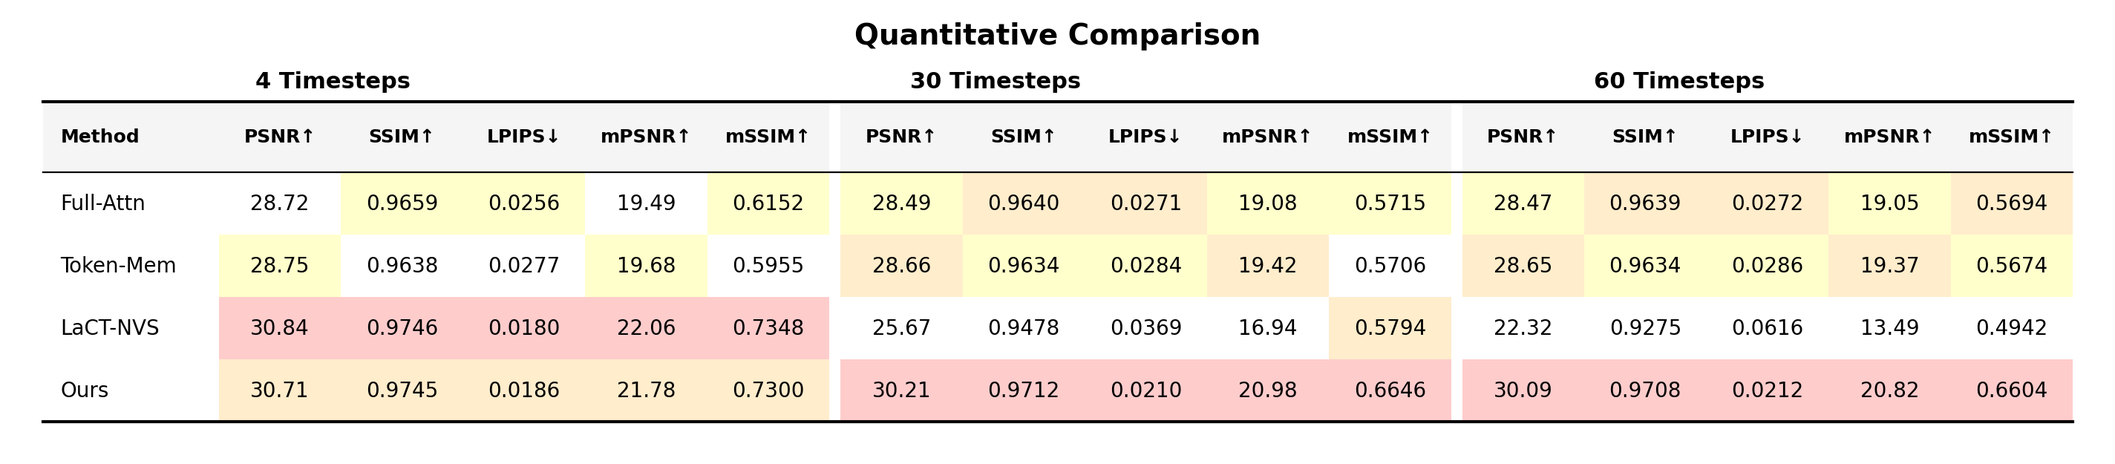
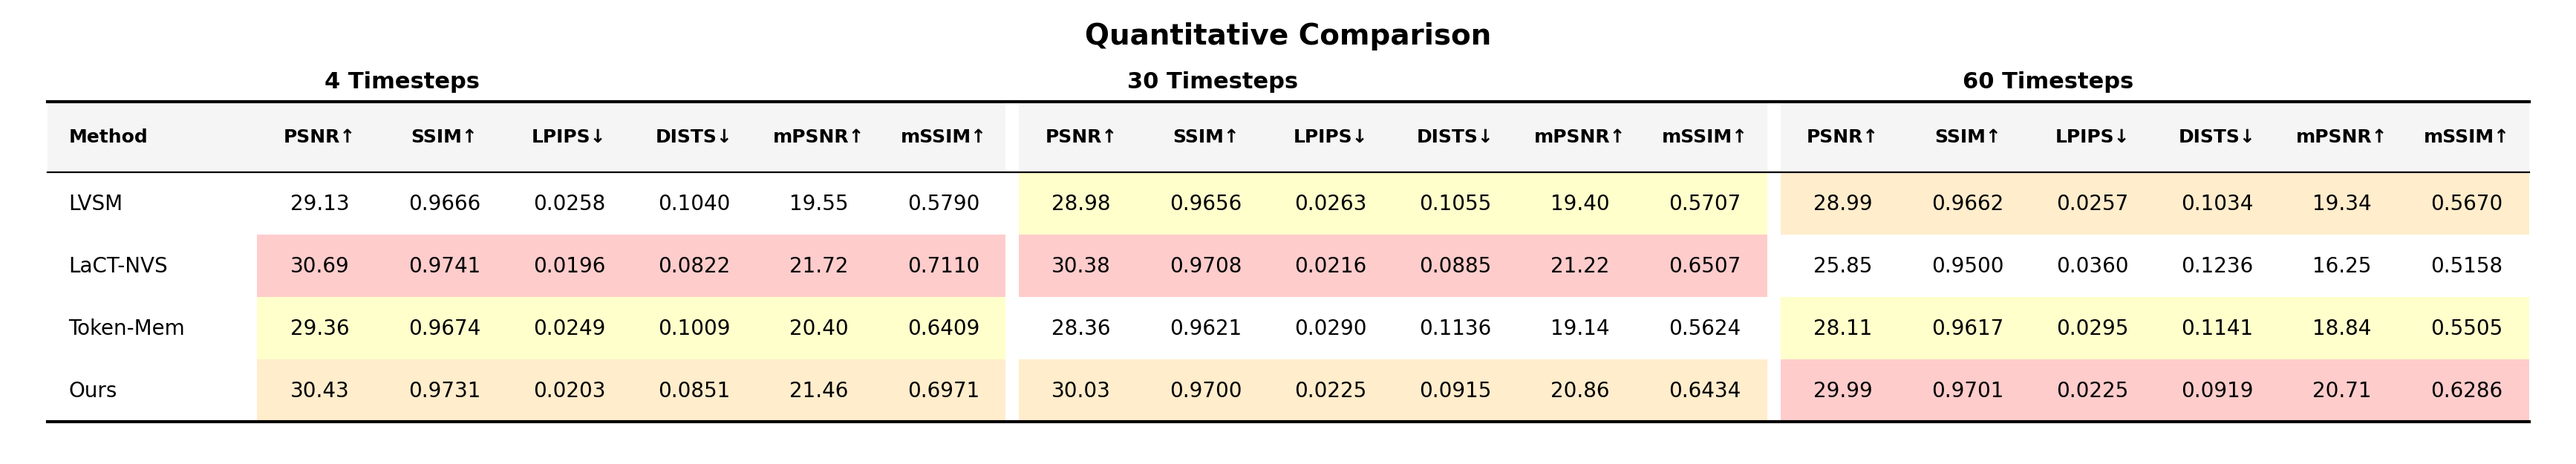
Regenerate all figures and tables from WACV sources
Figures (rendered from overleaf_project/sections/figures/*.pdf):
- architecture_v2.png  <- neural_space_time_memory_architecture.pdf
- training_regime_v6.png <- training_diagram_v8.pdf
- camera_setup.png     <- camera_setup.pdf
- teaser_graph.png     <- teaser_graph.pdf (2x for crispness)
- qualitative_results_v3.png <- qualitative_results_v8.pdf
- stability.png        <- stability_vert_v1.pdf (new vertical layout)
- ablations.png        <- ablation_v3.pdf

Tables (render_tables.py updated to WACV numbers, then re-run):
- mvhuman_net_experiments.png: methods now LVSM/LaCT-NVS/Token-Mem/Ours,
  added DISTS column, all values + rankings from mvhuman_net_experiments_arxiv_v5.tex
- ablations_exp.png: updated row 3 (Mem Caching) and row 6 (Ours) to ablations_exp.tex

Each figure visually verified for WACV content.

diff --git a/resources/render_tables.py b/resources/render_tables.py
@@ -31,10 +31,10 @@ def render_ablation_table():
     data = [
         ['LaCT-NVS Baseline',              '22.32', '0.9275', '0.0616', '13.49', '0.4942'],
         ['LaCT-NVS w/ L₂',                 '27.77', '0.9594', '0.0275', '19.08', '0.6189'],
-        ['LaCT-NVS w/ L₂ w/ Mem Caching',  '19.91', '0.9096', '0.0746', '11.63', '0.4509'],
+        ['LaCT-NVS w/ L₂ w/ Mem Caching',  '20.25', '0.9135', '0.0688', '12.03', '0.4707'],
         ['Ours wo/ ℒ_mem',                  '28.23', '0.9639', '0.0251', '19.36', '0.6198'],
         ['Ours wo/ Mem Caching',            '29.24', '0.9673', '0.0232', '19.78', '0.6321'],
-        ['Ours w/ Mem Caching',             '30.09', '0.9708', '0.0212', '20.82', '0.6604'],
+        ['Ours w/ Mem Caching',             '30.09', '0.9705', '0.0217', '20.79', '0.6537'],
     ]
 
     # Cell colors: None = white, 'best', 'second', 'third'
@@ -126,32 +126,33 @@ def render_ablation_table():
 def render_mvhuman_table():
     """Render the MVHumanNet experiments table (Table 1)."""
 
-    metrics = ['PSNR↑', 'SSIM↑', 'LPIPS↓', 'mPSNR↑', 'mSSIM↑']
+    metrics = ['PSNR↑', 'SSIM↑', 'LPIPS↓', 'DISTS↓', 'mPSNR↑', 'mSSIM↑']
 
-    methods = ['Full-Attn', 'Token-Mem', 'LaCT-NVS', 'Ours']
+    methods = ['LVSM', 'LaCT-NVS', 'Token-Mem', 'Ours']
 
     # Data organized as [method][timestep_group][metric]
     # Timestep groups: 4, 30, 60
+    # Source: sections/tables/mvhuman_net_experiments_arxiv_v5.tex (WACV)
     data_values = {
-        'Full-Attn': [
-            ['28.72', '0.9659', '0.0256', '19.49', '0.6152'],
-            ['28.49', '0.9640', '0.0271', '19.08', '0.5715'],
-            ['28.47', '0.9639', '0.0272', '19.05', '0.5694'],
-        ],
-        'Token-Mem': [
-            ['28.75', '0.9638', '0.0277', '19.68', '0.5955'],
-            ['28.66', '0.9634', '0.0284', '19.42', '0.5706'],
-            ['28.65', '0.9634', '0.0286', '19.37', '0.5674'],
+        'LVSM': [
+            ['29.13', '0.9666', '0.0258', '0.1040', '19.55', '0.5790'],
+            ['28.98', '0.9656', '0.0263', '0.1055', '19.40', '0.5707'],
+            ['28.99', '0.9662', '0.0257', '0.1034', '19.34', '0.5670'],
         ],
         'LaCT-NVS': [
-            ['30.84', '0.9746', '0.0180', '22.06', '0.7348'],
-            ['25.67', '0.9478', '0.0369', '16.94', '0.5794'],
-            ['22.32', '0.9275', '0.0616', '13.49', '0.4942'],
+            ['30.69', '0.9741', '0.0196', '0.0822', '21.72', '0.7110'],
+            ['30.38', '0.9708', '0.0216', '0.0885', '21.22', '0.6507'],
+            ['25.85', '0.9500', '0.0360', '0.1236', '16.25', '0.5158'],
+        ],
+        'Token-Mem': [
+            ['29.36', '0.9674', '0.0249', '0.1009', '20.40', '0.6409'],
+            ['28.36', '0.9621', '0.0290', '0.1136', '19.14', '0.5624'],
+            ['28.11', '0.9617', '0.0295', '0.1141', '18.84', '0.5505'],
         ],
         'Ours': [
-            ['30.71', '0.9745', '0.0186', '21.78', '0.7300'],
-            ['30.21', '0.9712', '0.0210', '20.98', '0.6646'],
-            ['30.09', '0.9708', '0.0212', '20.82', '0.6604'],
+            ['30.43', '0.9731', '0.0203', '0.0851', '21.46', '0.6971'],
+            ['30.03', '0.9700', '0.0225', '0.0915', '20.86', '0.6434'],
+            ['29.99', '0.9701', '0.0225', '0.0919', '20.71', '0.6286'],
         ],
     }
 
@@ -160,25 +161,25 @@ def render_mvhuman_table():
     W, B, S, T = WHITE, BEST_COLOR, SECOND_COLOR, THIRD_COLOR
 
     color_map = {
-        'Full-Attn': [
-            [W, T, T, W, T],
-            [T, S, S, T, T],
-            [T, S, S, T, S],
-        ],
-        'Token-Mem': [
-            [T, W, W, T, W],
-            [S, T, T, S, W],
-            [S, T, T, S, T],
+        'LVSM': [
+            [W, W, W, W, W, W],
+            [T, T, T, T, T, T],
+            [S, S, S, S, S, S],
         ],
         'LaCT-NVS': [
-            [B, B, B, B, B],
-            [W, W, W, W, S],
-            [W, W, W, W, W],
+            [B, B, B, B, B, B],
+            [B, B, B, B, B, B],
+            [W, W, W, W, W, W],
+        ],
+        'Token-Mem': [
+            [T, T, T, T, T, T],
+            [W, W, W, W, W, W],
+            [T, T, T, T, T, T],
         ],
         'Ours': [
-            [S, S, S, S, S],
-            [B, B, B, B, B],
-            [B, B, B, B, B],
+            [S, S, S, S, S, S],
+            [S, S, S, S, S, S],
+            [B, B, B, B, B, B],
         ],
     }
 
@@ -202,7 +203,7 @@ def render_mvhuman_table():
         table_data.append(row)
         table_colors.append(row_colors)
 
-    fig, ax = plt.subplots(figsize=(18, 3.5))
+    fig, ax = plt.subplots(figsize=(22, 3.5))
     ax.axis('off')
     ax.set_xlim(0, 1)
     ax.set_ylim(0, 1)
@@ -229,8 +230,8 @@ def render_mvhuman_table():
     for (row, col), cell in table.get_celld().items():
         cell.set_edgecolor('white')
         cell.set_linewidth(0)
-        # Spacer columns (col 6 and col 12 — 0-indexed)
-        if col in [6, 12]:
+        # Spacer columns (col 7 and col 14 — 0-indexed, after 6-metric groups)
+        if col in [7, 14]:
             cell.set_width(0.005)
             cell.set_facecolor(WHITE)
             cell.set_text_props(text='')
